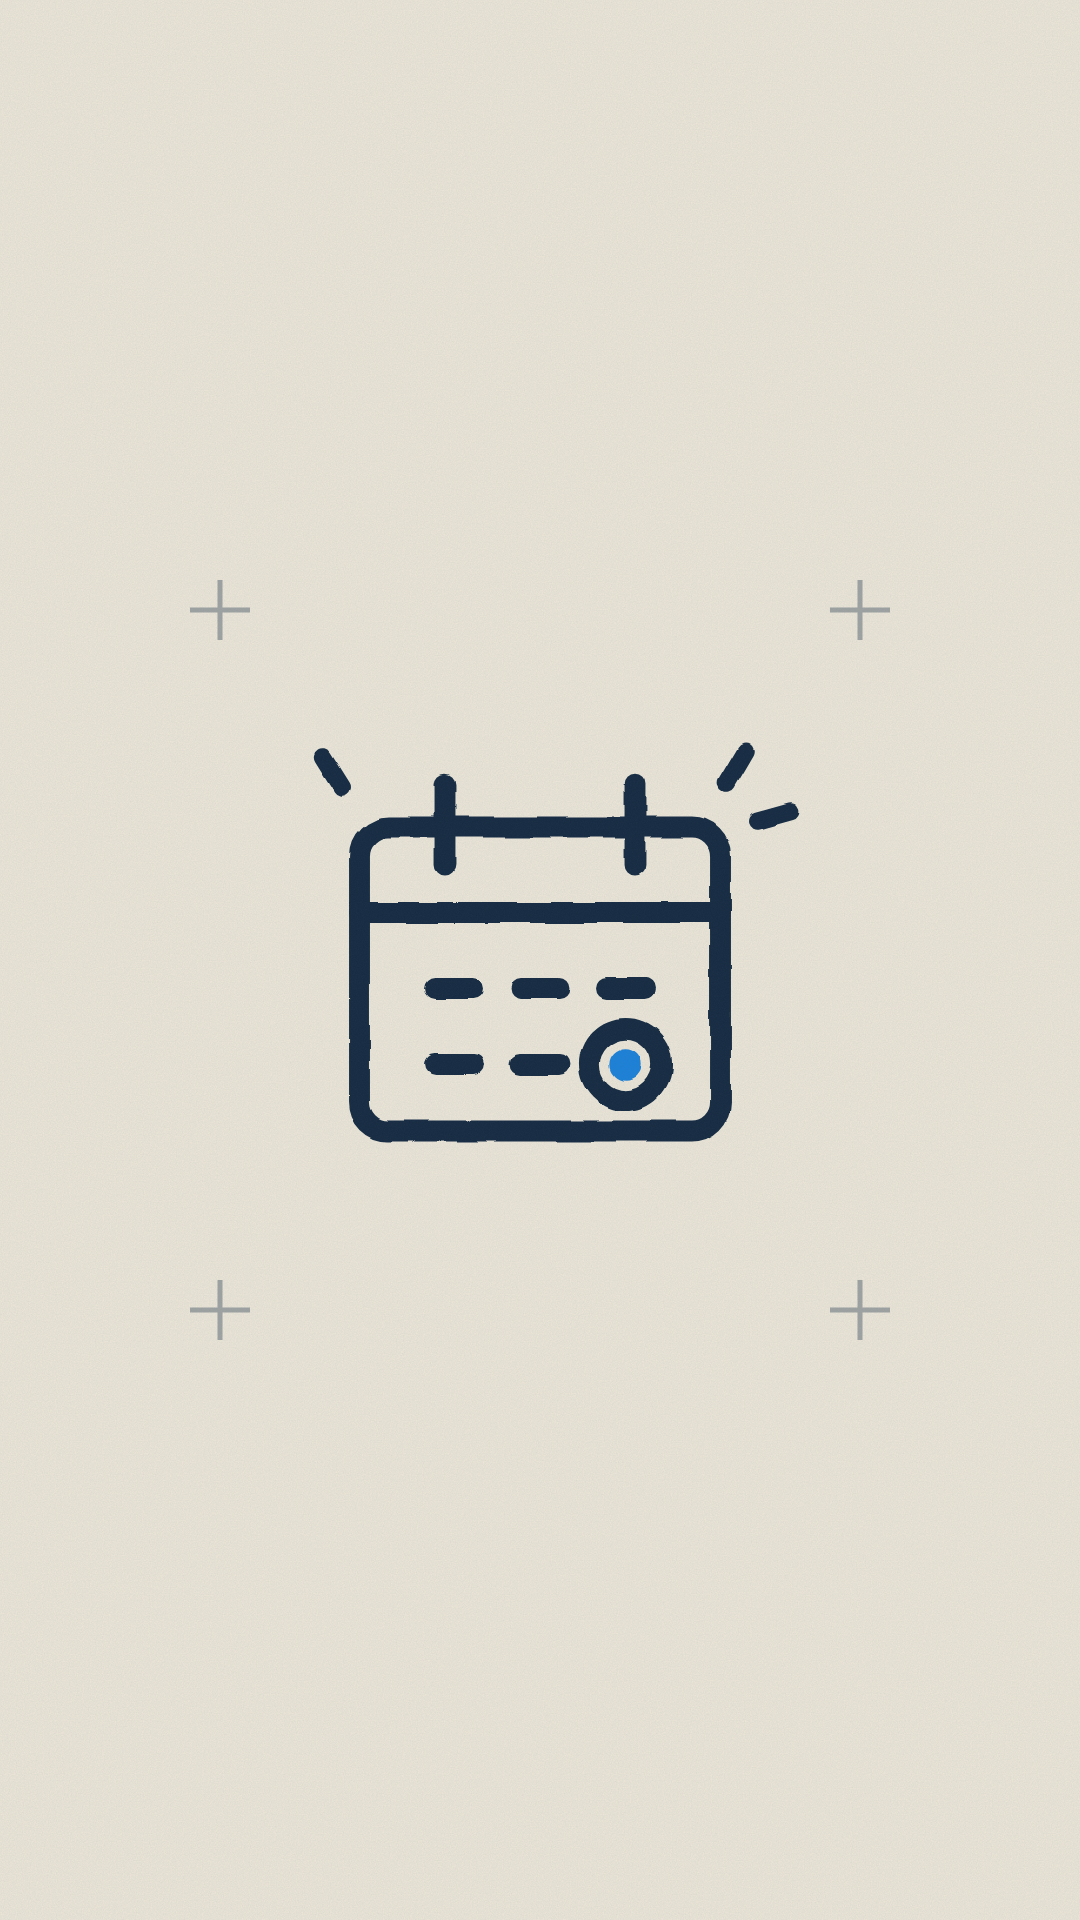
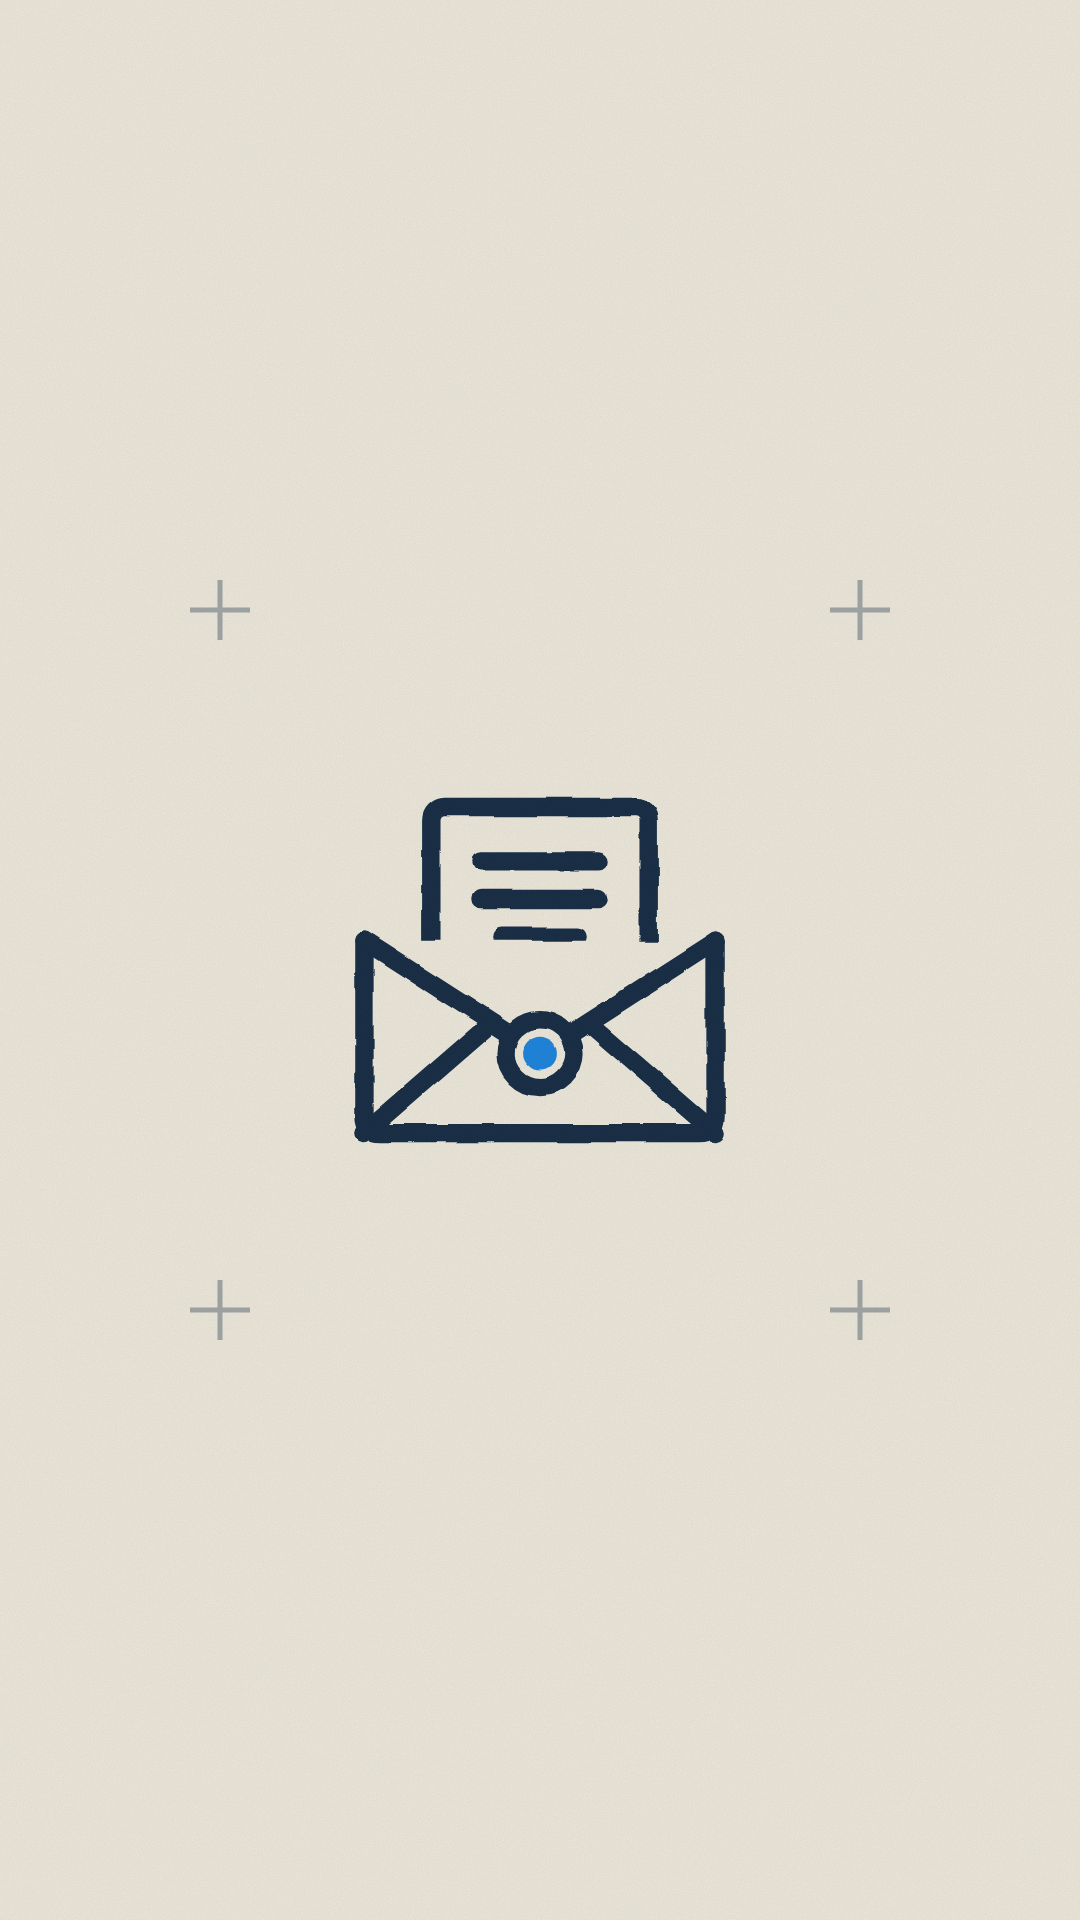
Redes: destacada «Eventos» como papelería (invitación en sobre con sello)
Claude-Session: https://claude.ai/code/session_01FGxw9aPArw9pn3yxwBbtRR

Changed region(s): [[0.275, 0.375, 0.7333, 0.5938]]

diff --git a/redes/destacadas/generar.py b/redes/destacadas/generar.py
@@ -52,12 +52,14 @@ ICONOS = {
       <path d="M0 -60C-50 -160 -200 -130 -195 -20C-190 70 -60 130 0 185C60 130 190 70 195 -20C200 -130 50 -160 0 -60Z"/>
       <path d="M-80 10L-20 70L95 -50"/>
       <circle cx="0" cy="185" r="17" fill="{VIVO}" stroke="none"/>""",
-    "eventos": f"""
-      <rect x="-190" y="-140" width="380" height="320" rx="30"/>
-      <path d="M-190 -50H190M-100 -185V-100M100 -185V-100"/>
-      <path d="M-110 30H-70M-20 30H20M70 30H110M-110 110H-70M-20 110H20"/>
-      <circle cx="90" cy="110" r="38" fill="{PAPEL}"/><circle cx="90" cy="110" r="17" fill="{VIVO}" stroke="none"/>
-      <path d="M196 -186L216 -220M228 -146L264 -156M-208 -182L-228 -214" stroke-width="18"/>""",
+    # papelería para eventos: invitación asomando de un sobre, con sello
+    "eventos": f"""<g transform="translate(0 15) scale(.88)">
+      <rect x="-130" y="-200" width="260" height="250" rx="16" fill="{PAPEL}"/>
+      <path d="M-70 -135H70M-70 -90H70M-45 -45H45"/>
+      <path d="M-210 -40V170Q-210 190 -190 190H190Q210 190 210 170V-40" fill="{PAPEL}"/>
+      <path d="M-210 -40L0 95L210 -40"/>
+      <path d="M-210 190L-60 60M210 190L60 60"/>
+      <circle cx="0" cy="95" r="40" fill="{PAPEL}"/><circle cx="0" cy="95" r="19" fill="{VIVO}" stroke="none"/></g>""",
 }
 NOMBRES = {"juegos": "Juegos", "libros": "Libros", "pedidos": "Pedidos", "envios": "Envíos",
            "proceso": "Proceso", "tips": "Tips", "clientes": "Clientes",
